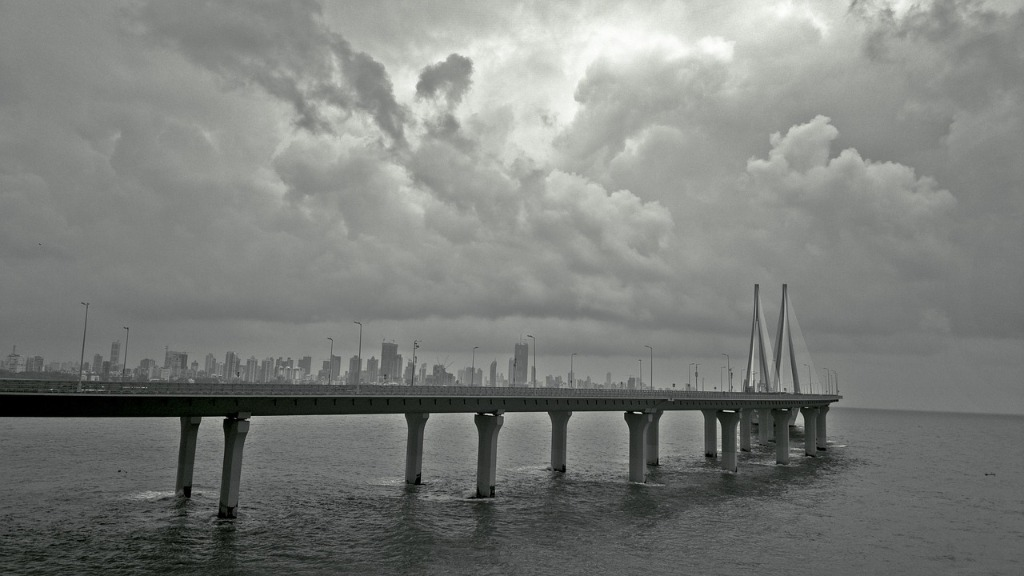
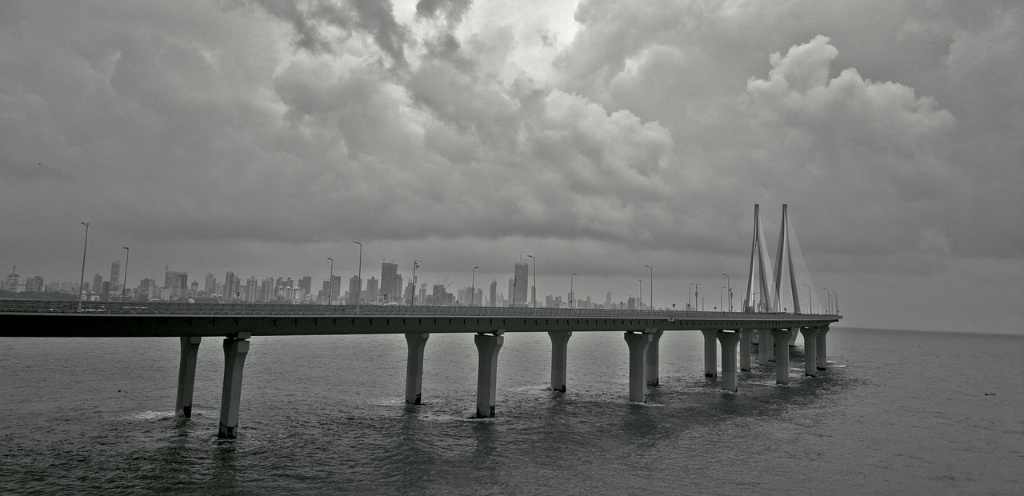
fix: reframed Sea Link photo and set explicit direct background rules on page heroes to ensure background imagery is clearly visible

diff --git a/architectural-design.html b/architectural-design.html
@@ -9,7 +9,12 @@
 <link rel="stylesheet" href="https://fonts.googleapis.com/css2?family=Montserrat:wght@400;500;600;700&family=Roboto:wght@300;400;500;600;700&display=swap">
 <link rel="stylesheet" href="https://cdnjs.cloudflare.com/ajax/libs/font-awesome/6.4.0/css/all.min.css">
 <link rel="stylesheet" href="assets/styles.css">
-<style> :root{ --page-hero-img: url('assets/architectural-design-hero.jpg'); } </style>
+<style>
+  :root{ --page-hero-img: url('assets/architectural-design-hero.jpg'); }
+  .page-hero {
+    background: linear-gradient(rgba(5, 20, 38, 0.40) 0%, rgba(5, 20, 38, 0.60) 100%), url('assets/architectural-design-hero.jpg') no-repeat center center / cover !important;
+  }
+</style>
 </head>
 <body>
 

diff --git a/careers.html b/careers.html
@@ -9,7 +9,12 @@
 <link rel="stylesheet" href="https://fonts.googleapis.com/css2?family=Montserrat:wght@400;500;600;700&family=Roboto:wght@300;400;500;600;700&display=swap">
 <link rel="stylesheet" href="https://cdnjs.cloudflare.com/ajax/libs/font-awesome/6.4.0/css/all.min.css">
 <link rel="stylesheet" href="assets/styles.css">
-<style>:root{ --page-hero-img: url('assets/careers-hero-bg.jpg'); }</style>
+<style>
+  :root{ --page-hero-img: url('assets/careers-hero-bg.jpg'); }
+  .page-hero {
+    background: linear-gradient(rgba(5, 20, 38, 0.40) 0%, rgba(5, 20, 38, 0.60) 100%), url('assets/careers-hero-bg.jpg') no-repeat center center / cover !important;
+  }
+</style>
 </head>
 <body>
 

diff --git a/about.html b/about.html
@@ -11,6 +11,9 @@
 <link rel="stylesheet" href="assets/styles.css">
 <style>
   :root{ --page-hero-img: url('assets/about-hero-bg.jpg'); }
+  .page-hero {
+    background: linear-gradient(rgba(5, 20, 38, 0.38) 0%, rgba(5, 20, 38, 0.58) 100%), url('assets/about-hero-bg.jpg') no-repeat center bottom / cover !important;
+  }
 </style>
 </head>
 <body>
